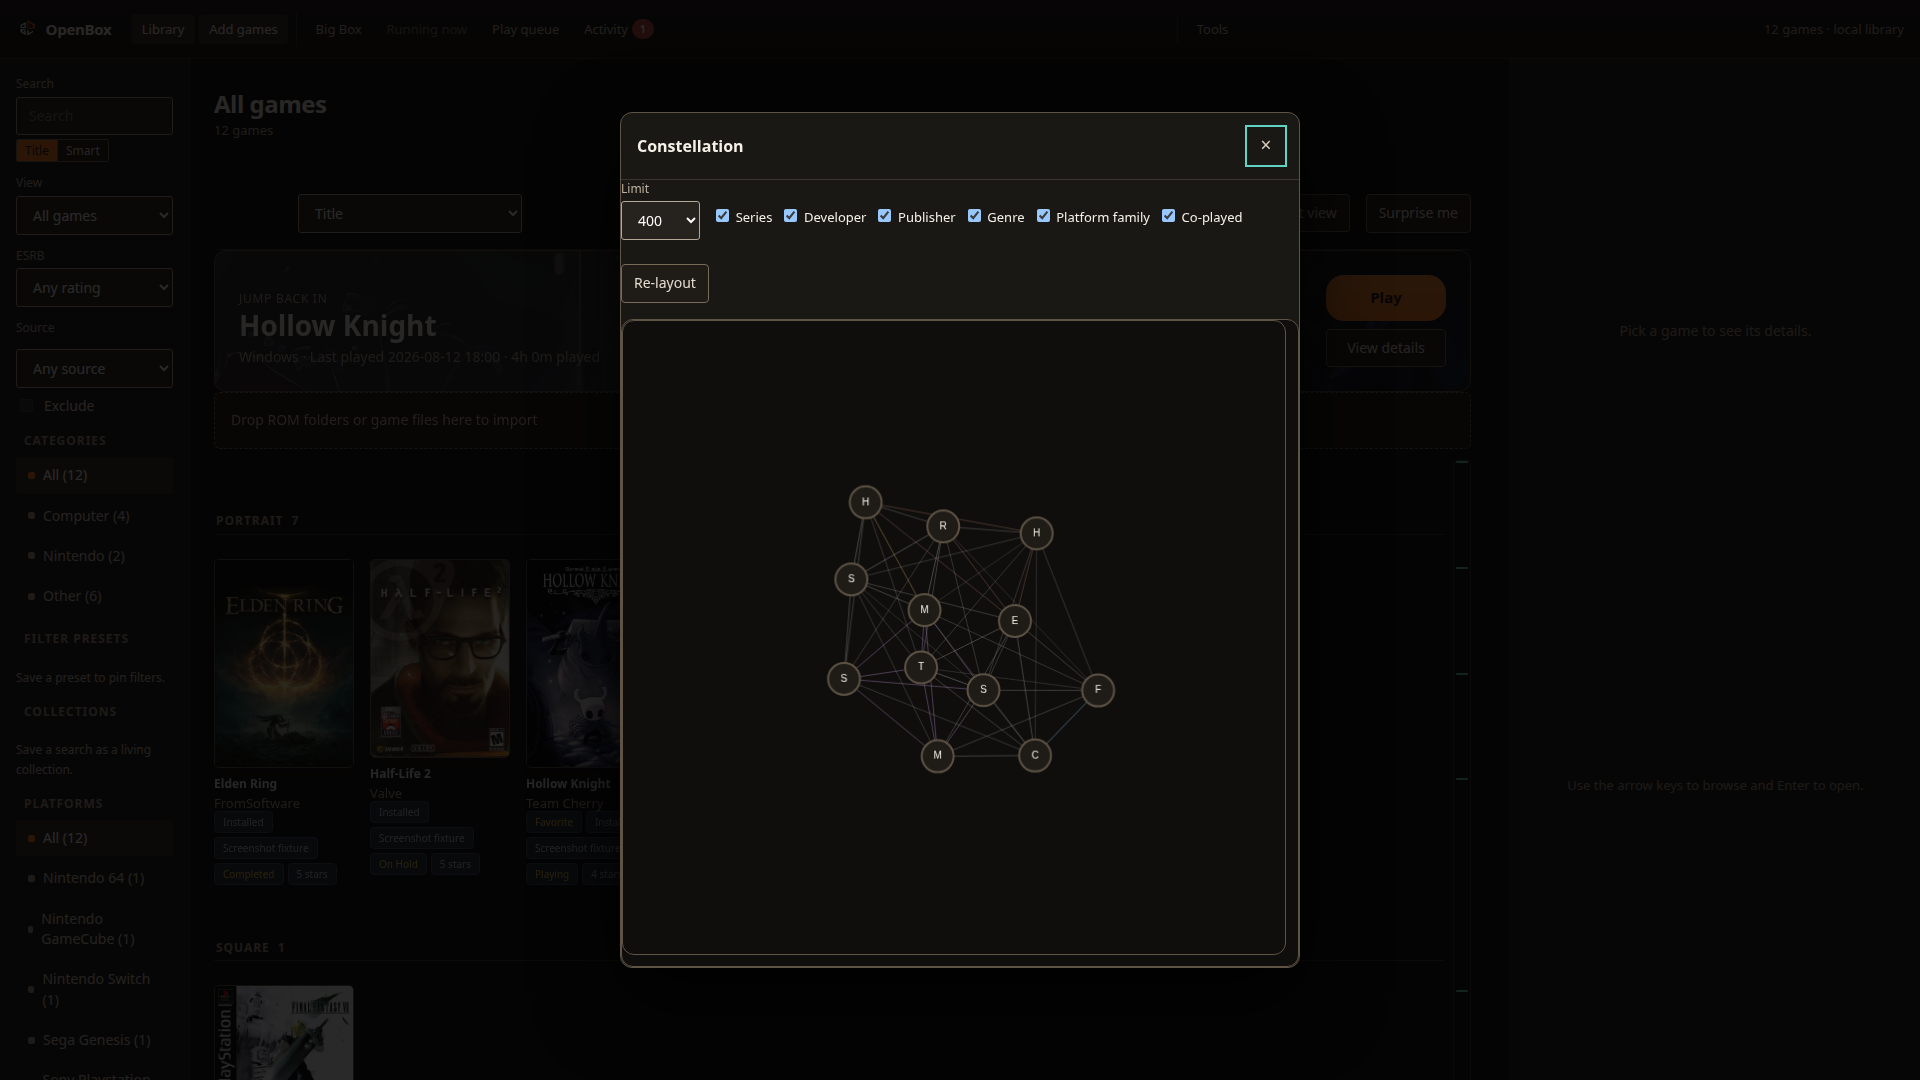
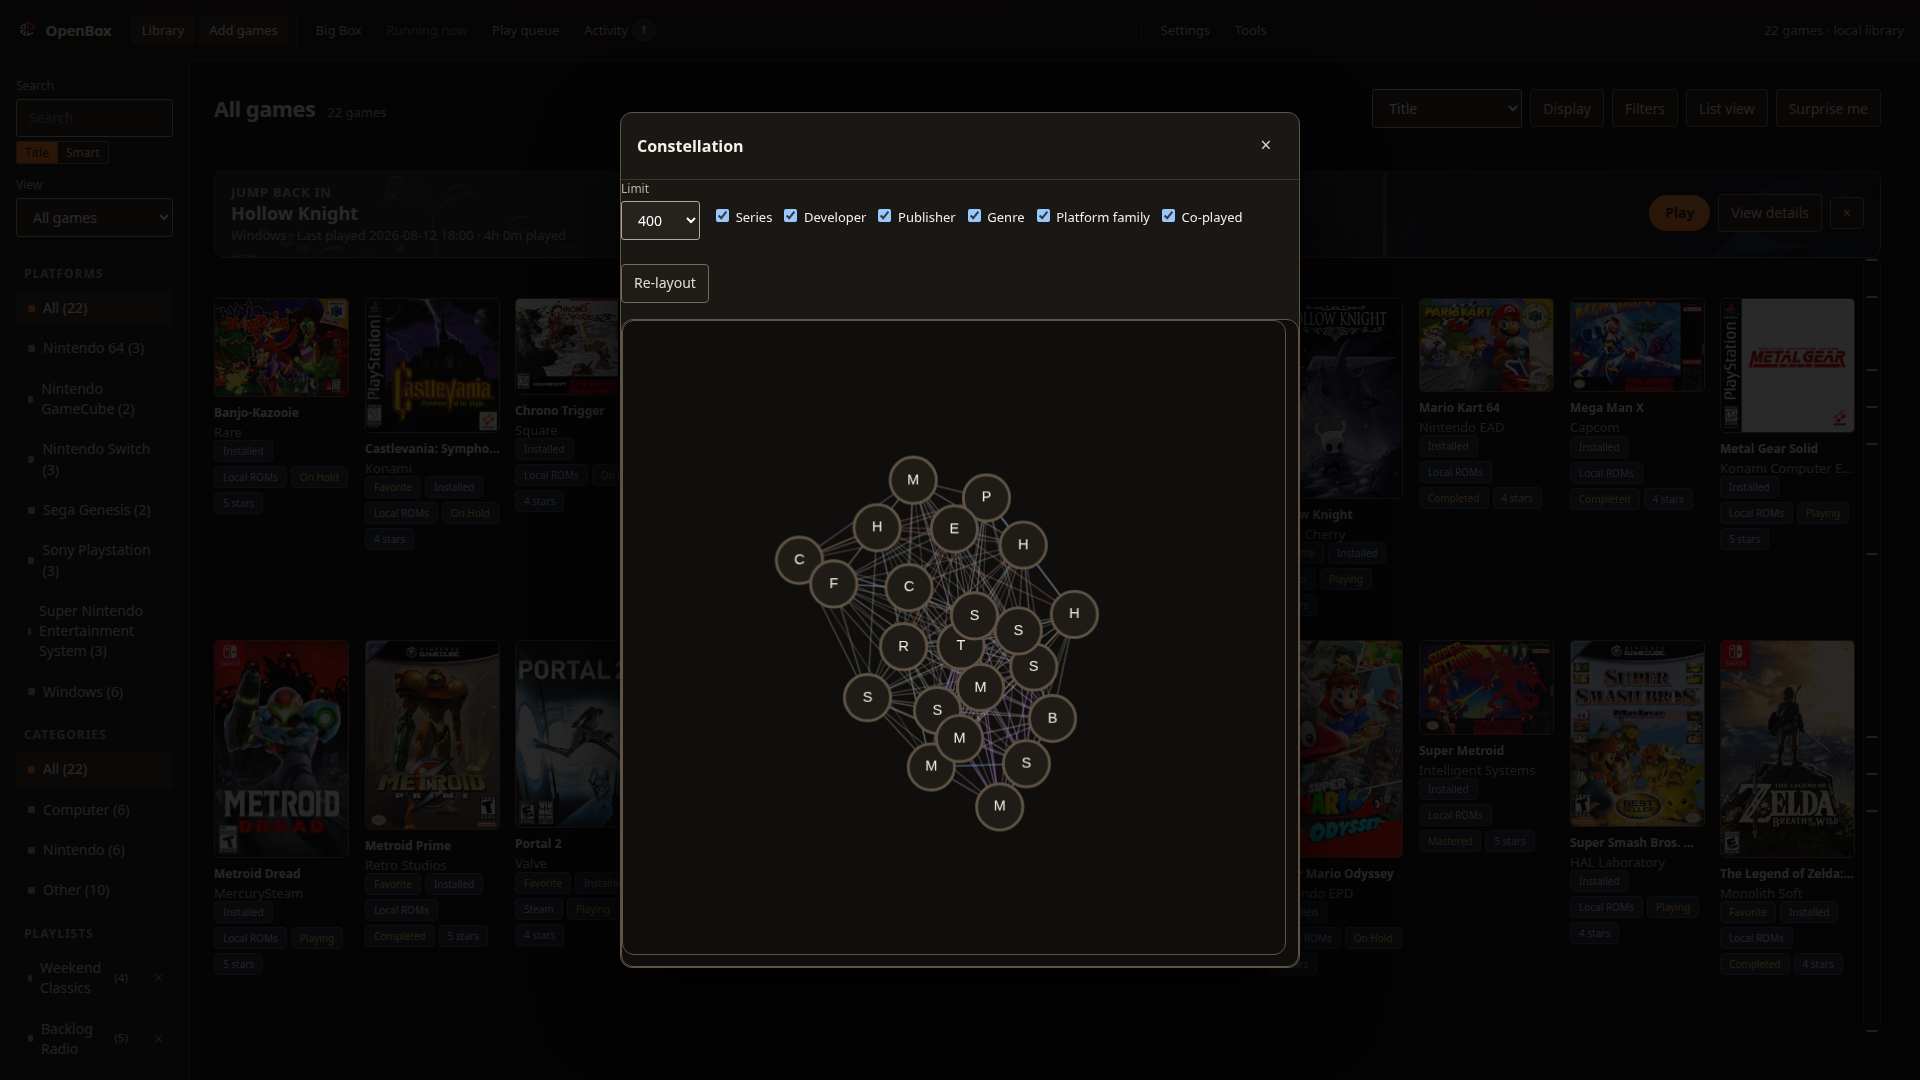
docs(assets): refresh OpenBox 3.0 screenshots and capture scripts

diff --git a/scripts/capture_readme_screenshots.py b/scripts/capture_readme_screenshots.py
@@ -5,8 +5,12 @@ Usage:
   cd scripts && npm ci    # once; requires Node.js 22.12+ and installs Puppeteer
   python3 scripts/capture_readme_screenshots.py
 
-Writes assets/openbox-screenshot.png, assets/openbox-game-detail.png,
-assets/openbox-bigbox.png, and assets/openbox-constellation.png (1920x1080).
+Writes all eight 1920x1080 showcase screenshots under assets/:
+  openbox-screenshot.png, openbox-game-detail.png, openbox-bigbox.png,
+  openbox-constellation.png, openbox-picker.png, openbox-wrapped.png,
+  openbox-mastery.png, and openbox-game-night.png.
+Prefers the native Rust openbox-server binary (OPENBOX_SERVER_BIN,
+target/release/openbox-server, or PATH) and falls back to web_app.py.
 Requires LaunchBox metadata under ~/.local/share/openbox-game-launcher/ (or network sync).
 """
 
@@ -50,6 +54,16 @@ GAMES = [
     ("Sonic the Hedgehog 2", "Sega Genesis", 108429, "Sonic2.bin", "covers/sonic_2_real.jpg", None),
     ("Mega Man X", "Super Nintendo Entertainment System", 143, "MegaManX.smc", "covers/mega_man_x_real.jpg", None),
     ("Final Fantasy VII", "Sony Playstation", 525, "FinalFantasyVII.bin", "covers/final_fantasy_vii_cover.jpg", None),
+    ("Portal 2", "Windows", 914, "Portal2.exe", "covers/portal_2_cover.jpg", "steam/portal_2_bg.jpg"),
+    ("Hades", "Windows", 167721, "Hades.exe", "covers/hades_cover.jpg", "steam/hades_bg.jpg"),
+    ("Super Mario Odyssey", "Nintendo Switch", 136132, "SuperMarioOdyssey.nsz", "covers/super_mario_odyssey_cover.jpg", None),
+    ("Metroid Dread", "Nintendo Switch", 202670, "MetroidDread.nsz", "covers/metroid_dread_cover.jpg", None),
+    ("Mario Kart 64", "Nintendo 64", 266, "MarioKart64.z64", "covers/mario_kart_64_cover.jpg", None),
+    ("Banjo-Kazooie", "Nintendo 64", 162, "BanjoKazooie.z64", "covers/banjo_kazooie_cover.jpg", None),
+    ("Super Smash Bros. Melee", "Nintendo GameCube", 5654, "SuperSmashBrosMelee.iso", "covers/smash_melee_cover.jpg", None),
+    ("Streets of Rage 2", "Sega Genesis", 694, "StreetsOfRage2.bin", "covers/streets_of_rage_2_cover.jpg", None),
+    ("Castlevania: Symphony of the Night", "Sony Playstation", 511, "CastlevaniaSOTN.bin", "covers/castlevania_sotn_cover.jpg", None),
+    ("Metal Gear Solid", "Sony Playstation", 196, "MetalGearSolid.bin", "covers/metal_gear_solid_cover.jpg", None),
 ]
 
 DISC_PLATFORMS = {
@@ -238,11 +252,19 @@ def build_library() -> None:
             "platform": platform,
             "path": str(rom_path),
             "launch": str(rom_path),
-            "source": "Screenshot fixture",
+            "source": "Steam" if platform == "Windows" else "Local ROMs",
             "cover": cover,
             "background": background or "",
-            "progress": "Playing" if index % 3 == 0 else "Completed" if index % 3 == 1 else "On Hold",
-            "favorite": index in {0, 4, 7},
+            "progress": (
+                "Mastered"
+                if index in {3, 13}
+                else "Playing"
+                if index % 3 == 0
+                else "Completed"
+                if index % 3 == 1
+                else "On Hold"
+            ),
+            "favorite": index in {0, 4, 7, 12, 13, 20},
             "play_count": play_count,
             "rating": 4 + (index % 2),
             "genre": {
@@ -270,60 +292,101 @@ def build_library() -> None:
 
     # Stable ids are recomputed from identity on load; derive them with the
     # same function so seeded history entries reference the surviving ids.
-    from state_store import _stable_game_id
+    from state_store import _stable_game_id, default_state
 
     history: list[dict] = []
     for index, game in enumerate(games):
         game["game_id"] = _stable_game_id(game)
-        if index % 3 == 0:
-            game["added_at"] = f"2026-0{1 + index % 7}-1{index % 9}T12:00:00"
+        if index == 1:
+            game["added_at"] = "2026-03-14T12:00:00"
+        else:
+            game["added_at"] = f"2025-0{1 + index % 9}-1{index % 9}T12:00:00"
         session_count = 4 + (index % 5)
         for session in range(session_count):
             month = 2 + (index + session) % 7
             day = 1 + ((index * 5 + session * 9) % 27)
             hour = 17 + (index + session) % 5
             started = datetime(2026, month, day, hour, 12, 0).isoformat()
-            history.append({
+            entry_item: dict[str, object] = {
                 "game_id": game["game_id"],
                 "title": game["name"],
                 "started": started,
                 "seconds": 1800 + ((index * 977 + session * 613) % 12600),
                 "exit_code": 0,
-            })
+            }
+            if session == session_count - 1:
+                if index in {1, 4, 14}:
+                    entry_item["note"] = "Completed main story"
+                elif index in {7, 10, 18, 20}:
+                    entry_item["note"] = "Beaten"
+                elif index in {3, 13}:
+                    entry_item["note"] = "Mastered 100%"
+            history.append(entry_item)
 
-    state = {
-        "games": games,
-        "profiles": {},
-        "history": history,
-        "playlists": [],
-        "settings": {
-            "welcome_completed": True,
-            "theme": "",
-            "library_view": "grid",
-            "image_group": "cover",
-            "bigbox_mode": "stage",
-            "screensaver_seconds": 90,
-            "show_insights": False,
-            "controller_map": {
-                "play": 0,
-                "back": 1,
-                "favorite": 2,
-                "random": 3,
-                "page_left": 4,
-                "page_right": 5,
-                "pause": 8,
-                "menu": 9,
-            },
+    state = default_state()
+    state["games"] = games
+    state["profiles"] = {}
+    state["history"] = history
+    state["playlists"] = [
+        {
+            "name": "Weekend Classics",
+            "type": "manual",
+            "members": [games[i]["game_id"] for i in (0, 2, 3, 7)],
         },
-    }
+    ]
+    state["settings"].update({
+        "welcome_completed": True,
+        "theme": "",
+        "library_view": "grid",
+        "image_group": "cover",
+        "cover_grouping": "none",
+        "bigbox_mode": "stage",
+        "screensaver_seconds": 90,
+        "show_insights": False,
+        "controller_map": {
+            "play": 0,
+            "back": 1,
+            "favorite": 2,
+            "random": 3,
+            "page_left": 4,
+            "page_right": 5,
+            "pause": 8,
+            "menu": 9,
+        },
+    })
+    for stale_name in ("operations.json", "library.json.bak", "sessions.json"):
+        (DATA_DIR / stale_name).unlink(missing_ok=True)
     (DATA_DIR / "library.json").write_text(json.dumps(state, indent=2), encoding="utf-8")
+
+
+def resolve_server_command() -> list[str]:
+    override = os.environ.get("OPENBOX_SERVER_BIN", "").strip()
+    if override:
+        return [override, "--no-browser"]
+    for candidate in (
+        ROOT / "target" / "release" / "openbox-server",
+        ROOT / "target" / "debug" / "openbox-server",
+    ):
+        if candidate.is_file() and os.access(candidate, os.X_OK):
+            return [str(candidate), "--no-browser"]
+    installed = shutil.which("openbox-server")
+    if installed:
+        return [installed, "--no-browser"]
+    return [sys.executable, str(ROOT / "web_app.py"), "--no-browser"]
 
 
 def start_server() -> tuple[subprocess.Popen[str], str, str]:
     env = os.environ.copy()
     env["OPENBOX_DATA_DIR"] = str(DATA_DIR)
+    env["OPENBOX_ROOT"] = str(ROOT)
+    token_file = DATA_DIR / "server.token"
+    port_file = DATA_DIR / "server.port"
+    token_file.unlink(missing_ok=True)
+    port_file.unlink(missing_ok=True)
+    cmd = resolve_server_command()
+    print(f"Starting OpenBox server: {' '.join(cmd)}")
     process = subprocess.Popen(
-        [sys.executable, str(ROOT / "web_app.py"), "--no-browser"],
+        cmd,
         cwd=str(ROOT),
         env=env,
         stdout=subprocess.PIPE,
@@ -331,21 +394,31 @@ def start_server() -> tuple[subprocess.Popen[str], str, str]:
         text=True,
     )
     url = ""
+    output_lines: list[str] = []
     deadline = time.time() + 20
     while time.time() < deadline:
         line = process.stdout.readline() if process.stdout else ""
+        if line:
+            output_lines.append(line.rstrip())
         if "http://127.0.0.1:" in line:
-            url = line.strip().split()[-1]
-            break
+            for token_part in line.strip().split():
+                if token_part.startswith("http://127.0.0.1:"):
+                    url = token_part.rstrip("/") + "/"
+                    break
+            if url:
+                break
         if process.poll() is not None:
-            raise SystemExit("OpenBox server exited before publishing a URL.")
+            details = "\n".join(output_lines[-20:])
+            raise SystemExit(f"OpenBox server exited before publishing a URL.\n{details}")
     if not url:
         process.kill()
-        raise SystemExit("Timed out waiting for OpenBox server URL.")
-    # web_app.py no longer prints the token-bearing URL; the token lives in
-    # <data_dir>/server.token (0600), which the server writes before printing
-    # the port URL on stdout.
-    token_file = DATA_DIR / "server.token"
+        details = "\n".join(output_lines[-20:])
+        raise SystemExit(f"Timed out waiting for OpenBox server URL.\n{details}")
+    # The server never prints the token-bearing URL; the token lives in
+    # <data_dir>/server.token (0600), written before printing the port URL.
+    token_deadline = time.time() + 5
+    while not token_file.is_file() and time.time() < token_deadline:
+        time.sleep(0.05)
     if not token_file.is_file():
         process.kill()
         raise SystemExit("Timed out waiting for OpenBox server.token.")
